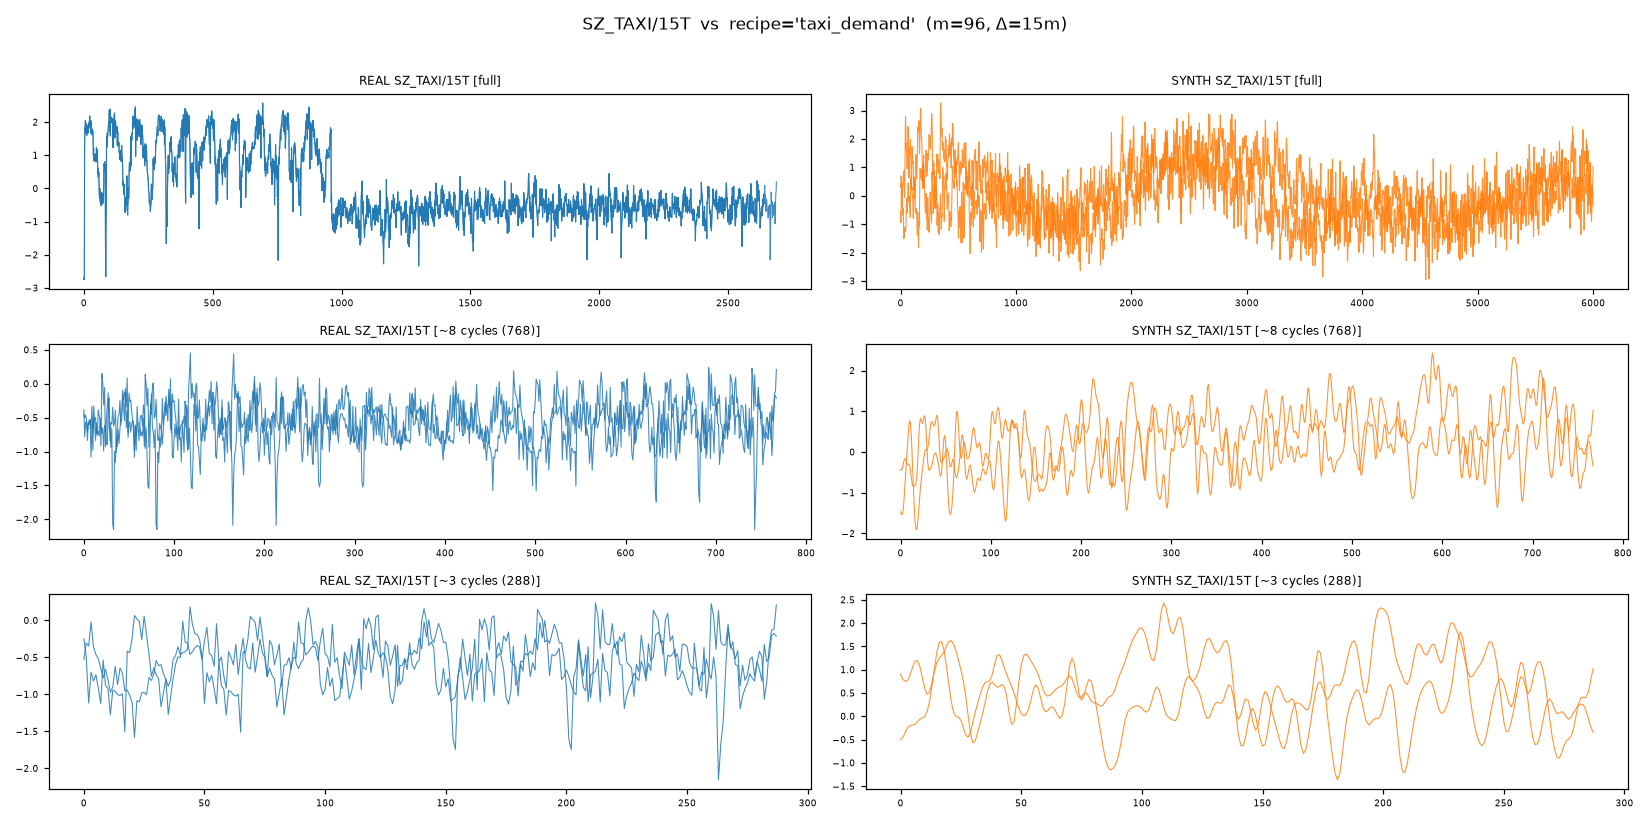
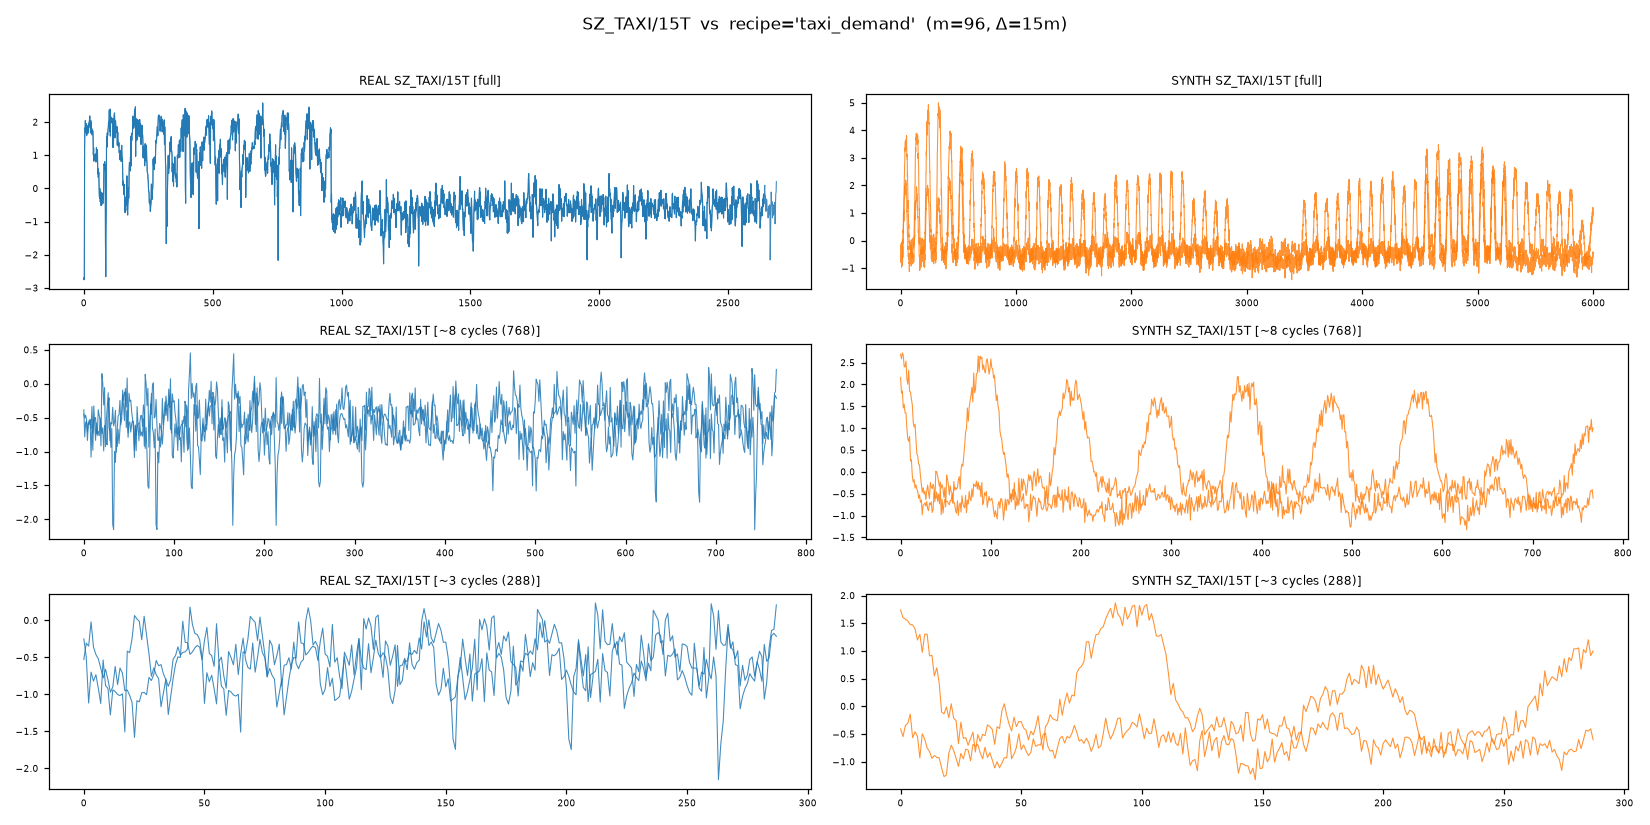
TETRIS H1.1: SZ_TAXI two-regime fix (maintainer feedback)
First taxi_demand pass (drift_seasonal) looked like uniform sine+noise; the real
SZ_TAXI has two regimes — a cyclic stretch then a flat noise-dominated stretch.
Rebuilt as a regime-switching broad_hump recurring profile: added a `regime_quiet`
pass-through knob to gen_recurring_profile so the active↔quiet envelope can scale the
daily profile to a deep quiet level while the residual stays constant — a quiet stretch
reads as flat+noise, an active stretch as cycle+noise. regime_quiet defaults to the
prior (0.08,0.3) so electricity et al. are byte-unchanged. uv run pytest green.

diff --git a/src/tetris/data/synth_archetype_recipes.py b/src/tetris/data/synth_archetype_recipes.py
@@ -64,12 +64,16 @@ RECIPES: Dict[str, dict] = {
     "traffic_flow": {"period_min": 1440, "tie": 0.0, "channels": [
         ("recurring", dict(kind="broad_hump", weekly=True, amp_jitter=0.18, amp_persist=0.6,
                            noise_amp=0.06, hf_noise=0.09))]},
-    # taxi DEMAND (SZ_TAXI): a WEAK daily cycle drowned in heavy noise + occasional level
-    # shifts — snaive only just beats last on the real (not a clean hump). Modeled as a
-    # small daily oscillation on a persistent drift with a large residual.
+    # taxi DEMAND (SZ_TAXI): TWO regimes — a cyclic stretch (strong daily wave, high day +
+    # sharp pre-dawn troughs) then a flat noise-dominated stretch — with heavy noise
+    # throughout. The `regime` envelope scales the daily profile down to a quiet level
+    # while the residual stays constant, so a quiet stretch reads as "flat + noise" and an
+    # active stretch as "cycle + noise" — the real two-regime structure. snaive only just
+    # beats last (the cycle is weak relative to the noise), as on the real.
     "taxi_demand": {"period_min": 1440, "tie": 0.0, "channels": [
-        ("drift_seasonal", dict(weekly_amp=0.0, daily_amp=0.6, drift_corr_days=4.0,
-                                noise_amp=0.7))]},
+        ("recurring", dict(kind="broad_hump", weekly=False, amp_jitter=0.25, amp_persist=0.85,
+                           noise_amp=0.12, hf_noise=0.15, regime_prob=0.05,
+                           regime_quiet=(0.04, 0.15)))]},
     # traffic SPEED (LOOP_SEATTLE): high free-flow plateau notched DOWN by two rush-hour
     # dips/day (the `valley` profile) + heavy HF jitter (speed is noisy at 5T/H).
     "traffic_speed": {"period_min": 1440, "tie": 0.0, "channels": [

diff --git a/src/tetris/data/synth_archetypes.py b/src/tetris/data/synth_archetypes.py
@@ -139,7 +139,8 @@ def gen_recurring_profile(
     rng, n: int, spc: int, *, kind: Optional[str] = None, weekly: bool = True,
     amp_jitter: float = 0.18, amp_persist: float = 0.8, noise_amp: float = 0.04,
     hf_noise: float = 0.0, mult_noise: float = 0.0, level_frac: float = 0.0,
-    regime_prob: float = 0.0, trend: float = 0.0,
+    regime_prob: float = 0.0, regime_quiet: Tuple[float, float] = (0.08, 0.3),
+    trend: float = 0.0,
 ) -> Tuple[np.ndarray, int, str]:
     """A **recurring daily profile**: a fixed ``daily_profile`` repeated every ``spc``
     samples, scaled per day by an **autocorrelated** amplitude (``amp_persist`` →
@@ -159,7 +160,7 @@ def gen_recurring_profile(
     if weekly:
         day_amp = day_amp * _weekly_factor(rng, n_days)
     if regime_prob > 0:                                  # active↔quiet usage regimes
-        day_amp = day_amp * _regime_envelope(rng, n_days, regime_prob)
+        day_amp = day_amp * _regime_envelope(rng, n_days, regime_prob, quiet=regime_quiet)
     series = np.concatenate([day_amp[d] * profile for d in range(n_days)])[:n]
     if mult_noise > 0:
         # per-day intra-day texture (e.g. solar cloud cover): a sub-daily smooth factor

diff --git a/docs/tetris/sanity_experiments/synth_targeted_smoothness_plan.md b/docs/tetris/sanity_experiments/synth_targeted_smoothness_plan.md
@@ -60,8 +60,13 @@ committed **characterizer** is a next step).
   - **M_DENSE (flow)** → NEW `broad_hump` profile: a wide rounded daytime (~0.6 of the day,
     large taper) over a short low night — a soft trapezoid, *not* the square wave `business`
     gave nor the too-narrow `single_hump`. Recipe `traffic_flow`.
-  - **SZ_TAXI (demand)** → a noisy weak daily cycle (periodicity buried in noise), modeled
-    with `drift_seasonal` (small `daily_amp`, large `noise_amp`). Recipe `taxi_demand`.
+  - **SZ_TAXI (demand)** → **two regimes** (maintainer feedback): a cyclic stretch (rounded
+    daily wave + noise) then a flat noise-dominated stretch. Modeled as a regime-switching
+    `broad_hump` recurring profile — the `regime` envelope scales the daily profile down to
+    a deep quiet level (new `regime_quiet` pass-through knob) while the residual stays
+    constant, so a quiet stretch reads as *flat + noise* and an active stretch as *cycle +
+    noise*. Recipe `taxi_demand`. (First pass used `drift_seasonal` → looked like uniform
+    sine+noise with no regimes; the eye caught it.)
   Panels: `docs/tetris/sanity_experiments/synth_panels/h1_1_traffic/`. Subagent visual
   critique drove the `broad_hump` fix (M_DENSE square-wave) and confirmed the rest.
   New archetype vocabulary: `valley`, `broad_hump` (added to `PROFILE_KINDS`).